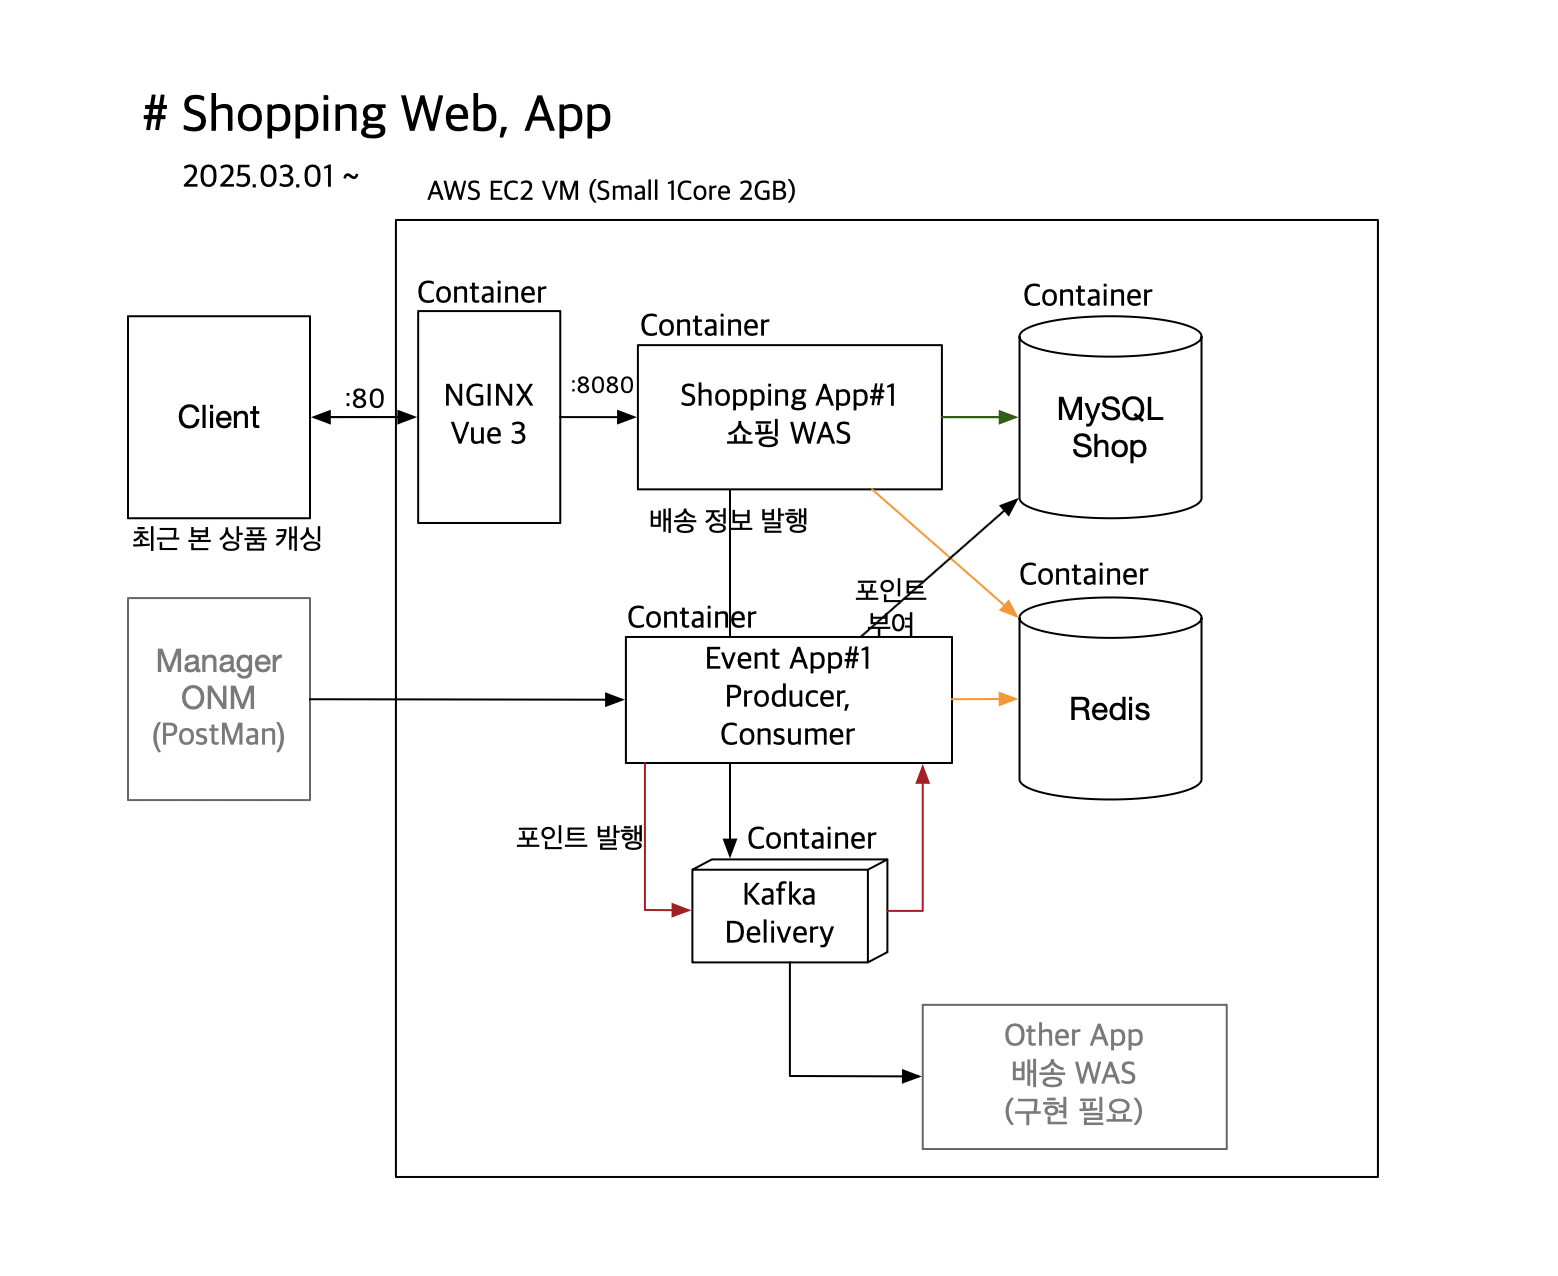
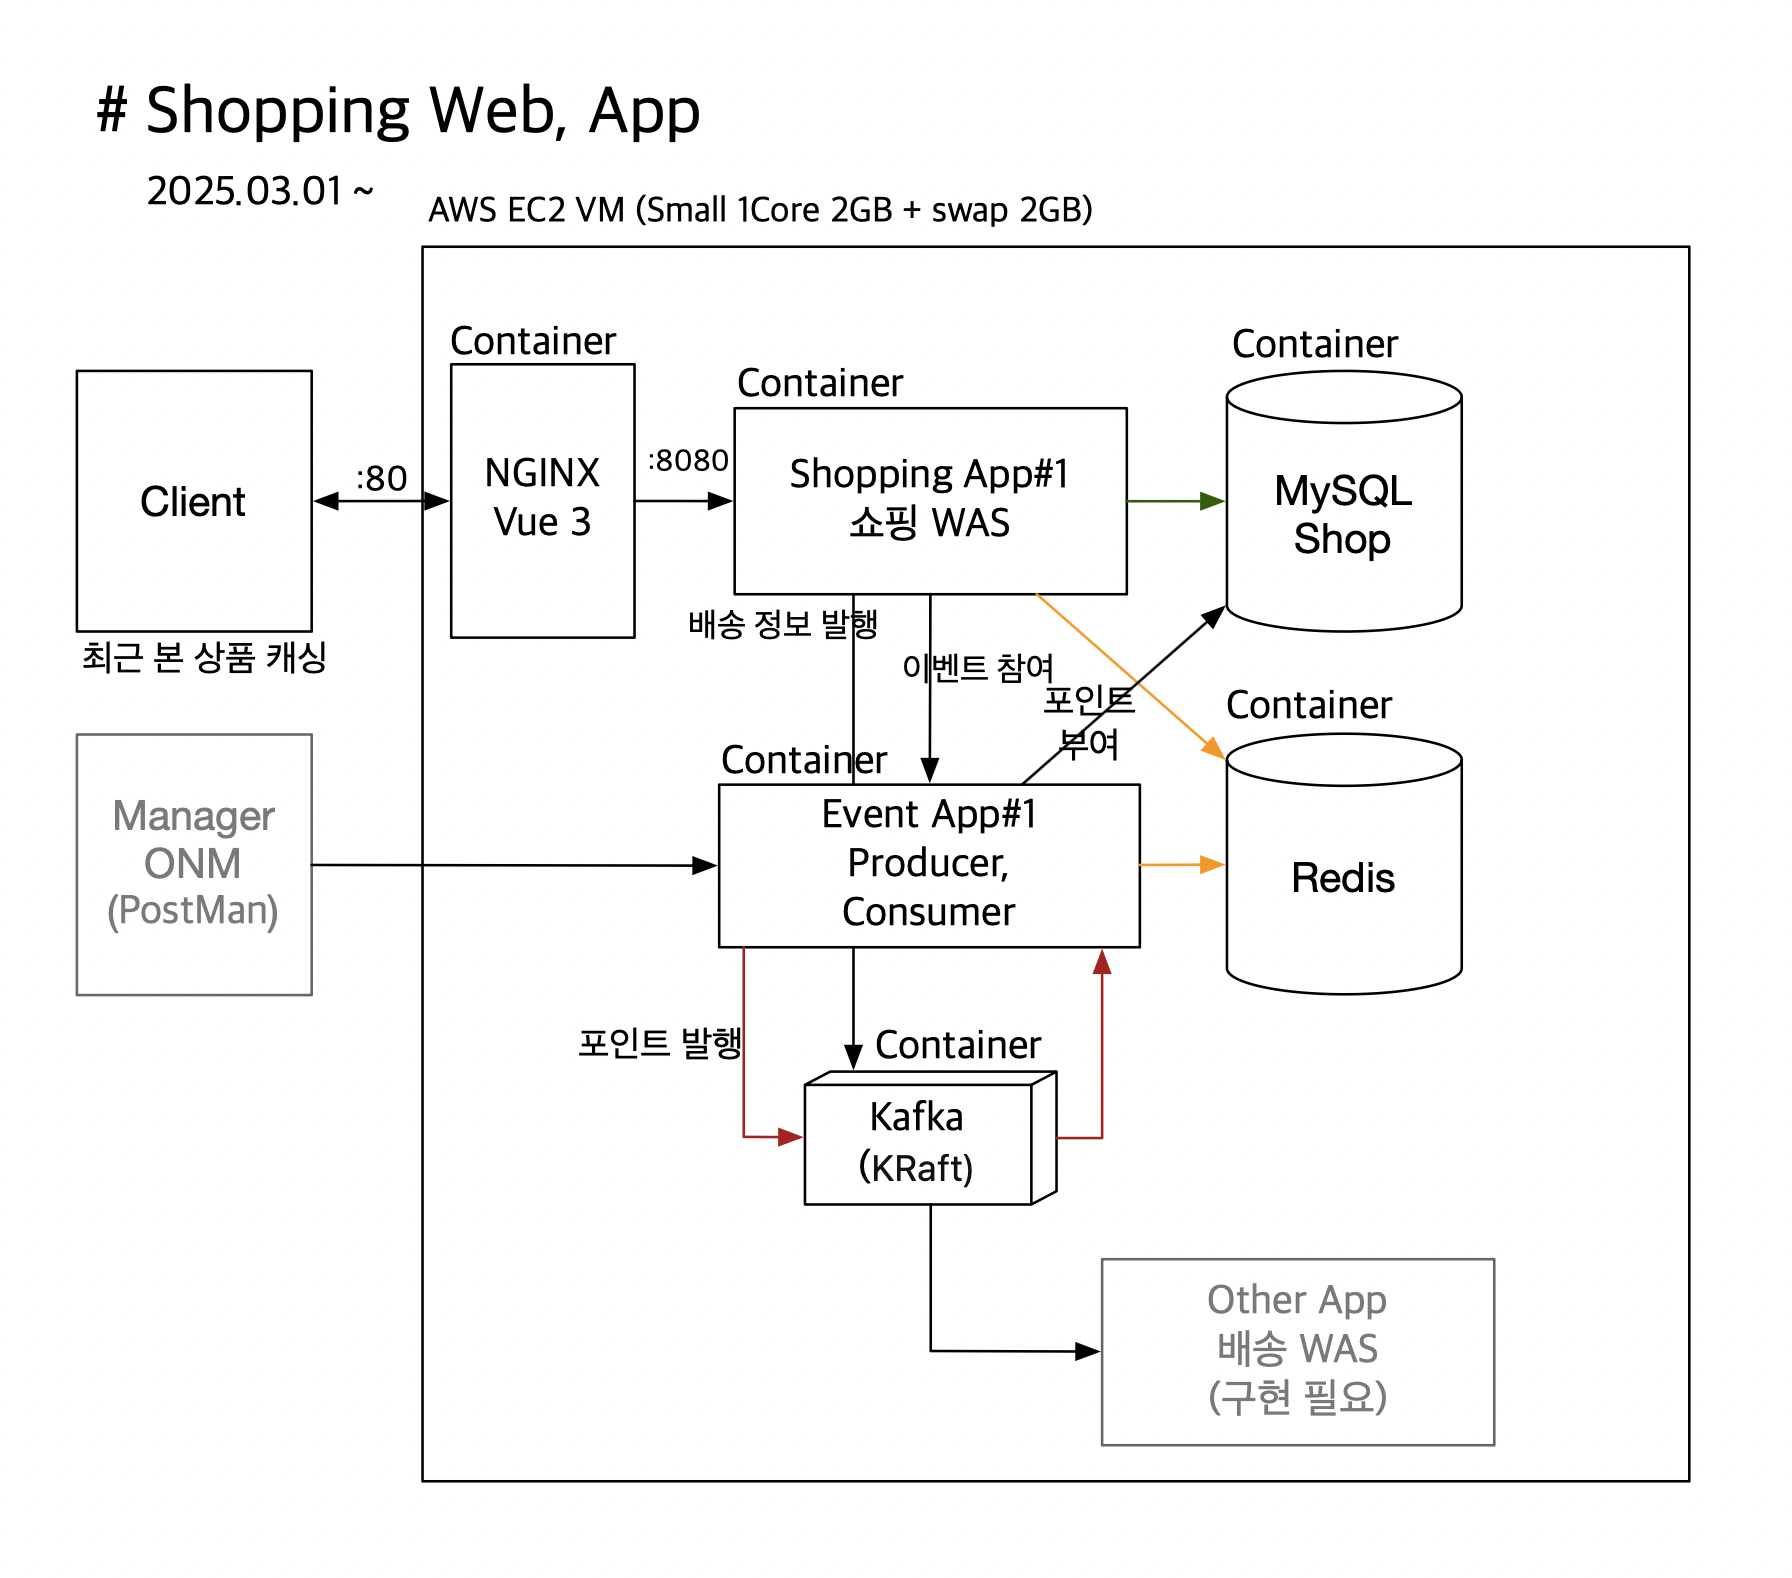
feat: Kafka 메시지 전송 및 워커 스레드 관리 개선

diff --git a/src/main/java/com/shop/shoppingapi/producer/KafkaWorkerManager.java b/src/main/java/com/shop/shoppingapi/producer/KafkaWorkerManager.java
@@ -1,12 +1,8 @@
 package com.shop.shoppingapi.producer;
 
 import com.shop.shoppingapi.producer.dto.DeliveryMessage;
-import lombok.AccessLevel;
 import lombok.RequiredArgsConstructor;
 import lombok.extern.slf4j.Slf4j;
-import org.springframework.boot.context.event.ApplicationReadyEvent;
-import org.springframework.context.event.EventListener;
-import org.springframework.stereotype.Component;
 
 import java.util.ArrayList;
 import java.util.List;
@@ -18,8 +14,7 @@ import java.util.concurrent.TimeUnit;
  * 추후 서비스의 유연성 및 확장성을 고려하여 Kafka Worker Manager를 구현합니다.
  */
 @Slf4j
-@Component
-@RequiredArgsConstructor(access = AccessLevel.PROTECTED)
+@RequiredArgsConstructor
 public class KafkaWorkerManager {
 
     private final KafkaOrderMessageQueue kafkaOrderMessageQueue;
@@ -30,9 +25,7 @@ public class KafkaWorkerManager {
 
     private final ScheduledExecutorService retryScheduler = Executors.newScheduledThreadPool(1);
 
-    /// 5초의 딜레이가 필요하므로 @PostConstruct 대신 @EventListener(ApplicationReadyEvent)를 사용합니다.
-    @EventListener(ApplicationReadyEvent.class)
-    public void kafkaOrderMessageQueueWorkerStart() {
+    public void start() {
         for (int i = 0; i < WORKER_THREAD_COUNT; i++) {
             createAndStartWorker(i);
         }
@@ -56,15 +49,10 @@ public class KafkaWorkerManager {
         monitorThread.setUncaughtExceptionHandler((t, e) -> log.error("[KafkaWorkerManager] Monitor thread crashed unexpectedly", e));
         monitorThread.start();
 
-        sleep(5000);
-        log.info("[KafkaWorkerManager] Current Kafka Thread info: monitorThread: {}, workers: {}", monitorThread, workers);
-    }
-
-    private void sleep(long millis) {
-        try {
-            Thread.sleep(millis);
-        } catch (InterruptedException e) {
-            log.error("[KafkaWorkerManager] Sleep interrupted", e);
+        if (workers.stream().allMatch(Thread::isAlive)) {
+            log.info("[KafkaWorkerManager] All Kafka worker threads successfully started.");
+        } else {
+            log.warn("[KafkaWorkerManager] Some Kafka worker threads failed to start properly.");
         }
     }
 
@@ -106,5 +94,11 @@ public class KafkaWorkerManager {
                 log.debug("[KafkaWorkerManager] Kafka message re-enqueued after retry delay.");
             }
         }, 5, TimeUnit.SECONDS);
+    }
+
+    // Kafka Worker Manager의 상태를 확인하여 모든 Worker Thread가 정상적으로 동작 중인지 확인합니다.
+    public boolean isHealthy() {
+        return workers.size() == WORKER_THREAD_COUNT &&
+                workers.stream().allMatch(t -> t != null && t.isAlive());
     }
 }

diff --git a/src/main/java/com/shop/shoppingapi/config/KafkaProducerConfig.java b/src/main/java/com/shop/shoppingapi/config/KafkaProducerConfig.java
@@ -1,6 +1,9 @@
 package com.shop.shoppingapi.config;
 
 
+import com.shop.shoppingapi.producer.KafkaOrderMessageQueue;
+import com.shop.shoppingapi.producer.KafkaOrderProducer;
+import com.shop.shoppingapi.producer.KafkaWorkerManager;
 import com.shop.shoppingapi.producer.dto.DeliveryMessage;
 import org.apache.kafka.clients.producer.ProducerConfig;
 import org.apache.kafka.common.serialization.StringSerializer;
@@ -21,7 +24,6 @@ public class KafkaProducerConfig {
     @Value("${spring.kafka.bootstrap-servers}")
     private String bootstrapServers;
 
-    // 프로듀서 관련 옵션 (기본값은 필요에 따라 변경)
     @Value("${spring.kafka.producer.acks:all}")
     private String acks;
 
@@ -50,5 +52,16 @@ public class KafkaProducerConfig {
     @Bean
     public KafkaTemplate<String, DeliveryMessage> kafkaTemplate() {
         return new KafkaTemplate<>(producerFactory());
+    }
+
+    /// fail-fast 를 사용하여 Thread 정상 기동이 아니면 서비스 기동을 중단하도록 설정
+    @Bean(name = "kafkaWorkerManager")
+    public KafkaWorkerManager kafkaWorkerManager(KafkaOrderMessageQueue kafkaOrderMessageQueue, KafkaOrderProducer kafkaOrderProducer) {
+        KafkaWorkerManager kafkaWorkerManager = new KafkaWorkerManager(kafkaOrderMessageQueue, kafkaOrderProducer);
+        kafkaWorkerManager.start();
+        if (!kafkaWorkerManager.isHealthy()) {
+            throw new IllegalStateException("Kafka worker thread failed to start. Aborting.");
+        }
+        return kafkaWorkerManager;
     }
 }

diff --git a/src/main/java/com/shop/shoppingapi/config/SecurityConfig.java b/src/main/java/com/shop/shoppingapi/config/SecurityConfig.java
@@ -92,8 +92,9 @@ public class SecurityConfig {
         return filterChain;
     }
 
+    /// fail-fast 방식을 사용하기위해 초기화를 진행하기 위해 빈을 직접 생성합니다.
     @Bean("rsaUtils")
-    public RsaUtils rsaUtils() {
+    public RsaUtils rsaUtils() throws IllegalStateException {
         log.trace("Initializing RsaUtils bean with private key path: {}", rsaPrivateKeyPath);
         RsaUtils rsaUtils = new RsaUtils(rsaPrivateKeyPath);
         log.trace("RsaUtils bean initialized successfully");

diff --git a/README.md b/README.md
@@ -50,5 +50,58 @@ Spring Boot, Spring Security, Spring Data JPA/Hibernate, QueryDSL, Redis, Kafka 
 ## 서비스 아키텍처 설계 (DEV)
 <img style="max-width: 900px;" src="diagram/architecture_dev.png">
 
-## DB 스키마
-<img style="max-width: 900px;" src="diagram/database.png">
+```
+docker stats --no-stream
+CONTAINER ID   NAME             CPU %     MEM USAGE / LIMIT    MEM %     NET I/O           BLOCK I/O         PIDS
+d45fcb4089df   shopping-event   0.22%     214.3MiB / 1.91GiB   10.96%    3.12MB / 3.33MB   28MB / 29MB       36
+e413ebe10fad   vue-app          0.00%     3.848MiB / 1.91GiB   0.20%     73.3kB / 831kB    4.27MB / 172kB    2
+ec491eee585a   shopping-app     0.14%     366.6MiB / 1.91GiB   18.74%    264kB / 261kB     72.7MB / 22.9MB   35
+e5ad1d6d2540   mysql            0.33%     312.5MiB / 1.91GiB   15.98%    217kB / 163kB     46.8MB / 155MB    48
+d36c1774f575   kafka            0.73%     396.6MiB / 1.91GiB   20.27%    3.34MB / 3.12MB   40.8MB / 493MB    91
+d674d8ae1cb9   redis            0.34%     7.777MiB / 1.91GiB   0.40%     29.1kB / 74.1kB   11.8MB / 238kB    6
+
+
+top - 19:07:03 up  5:06,  2 users,  load average: 1.35, 0.76, 0.30
+Tasks: 143 total,   1 running, 142 sleeping,   0 stopped,   0 zombie
+%Cpu(s):  0.0 us,  5.3 sy,  0.0 ni, 89.5 id,  5.3 wa,  0.0 hi,  0.0 si,  0.0 st
+MiB Mem :   1956.0 total,     76.1 free,   1486.4 used,    393.5 buff/cache
+MiB Swap:   2048.0 total,   1991.0 free,     57.0 used.    315.3 avail Mem 
+```
+
+## Kafka 기반 비동기 메시지 처리 아키텍처 개선
+
+### 문제 상황
+- 주문 완료 시 Kafka를 통해 메시지를 전송하고 있었으나,
+- 트랜잭션 커밋 전에 메시지가 발송되어 **데이터 정합성 문제** 발생 가능성 존재
+- 비동기 처리 도중 서비스가 재기동되면 메시지 유실 위험 존재
+
+### 해결 전략
+- Kafka 메시지 전송을 트랜잭션 이후로 분리하여 **정합성 확보**
+- 메시지를 메모리 기반 BlockingQueue에 저장하고, 별도 **워커 스레드에서 비동기 전송**
+- 메시지 전송 실패 시 **자동 재시도 로직 및 지연 큐 처리** 구현
+- 워커 스레드가 **예외로 종료될 경우 자동 감지 및 재기동**하는 감시 스레드 추가
+
+###  구현 방식
+- `LinkedBlockingQueue`를 활용한 Thread-safe 메시지 큐 구성
+- `Thread`를 직접 생성하여 2개의 worker가 Kafka 메시지 전송 전담
+- 실패 메시지 재시도를 위해 `ScheduledExecutorService`로 5초 후 재 enqueue
+- Spring Boot의 `@EventListener(ApplicationReadyEvent.class)`를 활용해 **애플리케이션 기동 이후 워커 스레드 실행**
+- 모든 워커와 메시지 흐름에 대해 로그 및 예외 처리 설계
+- kafka worker thread 관리 클래스 [KafkaWorkerManager.java](src/main/java/com/shop/shoppingapi/producer/KafkaWorkerManager.java)
+- fail-fast 전략을 사용하여 worker 비정상 기동시 애플리케이션 종료
+
+### 결과
+- Kafka 메시지 전송 시점이 트랜잭션 이후로 이동되어 정합성 확보
+- 메시지 유실 가능성 최소화 및 운영 안정성 향상
+- Thread가 예외로 종료되더라도 시스템이 자가 복구 가능하도록 설계
+- Redis, Kafka Consumer 등 외부 시스템으로 확장 가능한 구조로 설계
+
+### 🛠 주요 기술 스택
+- Spring Boot, Kafka, BlockingQueue, ScheduledExecutorService, Java Thread API
+
+## DB 스키마 (메인 비즈니스)
+<img style="max-width: 900px;" src="diagram/shop-db.png">
+
+## DB 스키마 (이벤트)
+<img style="max-width: 500px;" src="diagram/event-db.png">
+
